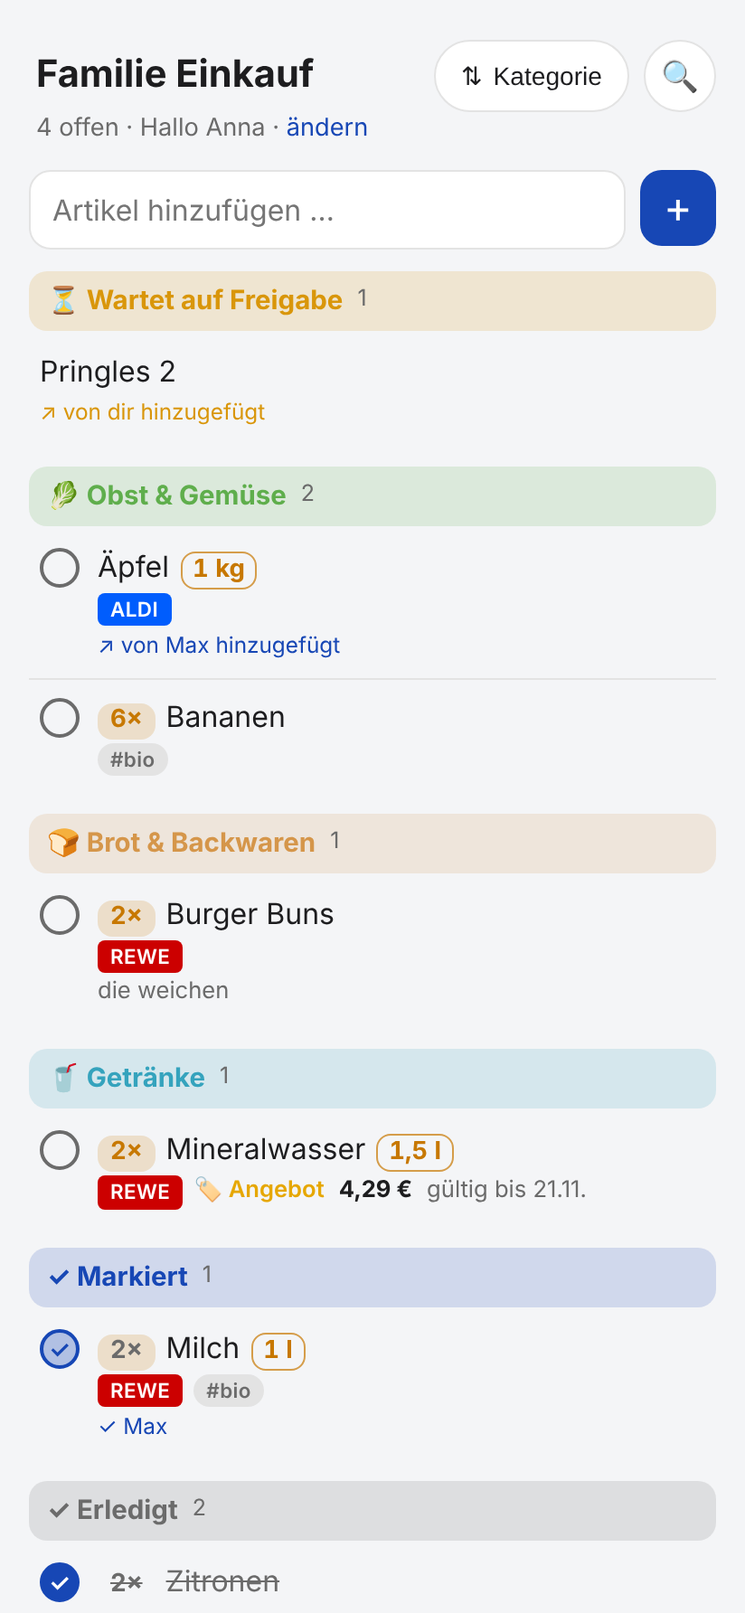
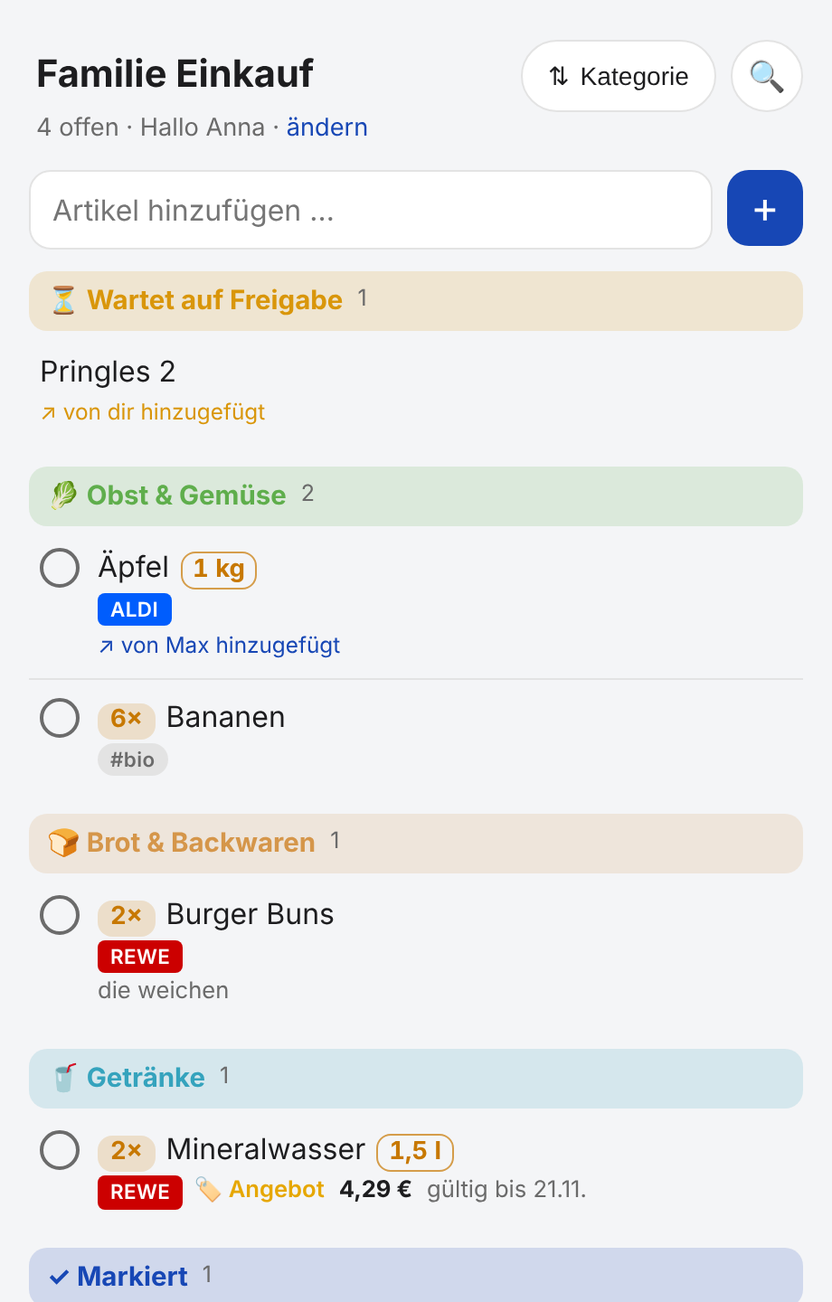
SmartLists pictures as dashboard cards, not in a phone frame

diff --git a/en/index.html b/en/index.html
@@ -337,7 +337,8 @@
   .shot .bar::after { content: "‹ ›"; position: absolute; top: 50%; left: 50%; transform: translate(-50%, -50%); width: 36px; height: 36px; border-radius: 50%; background: #fff; color: #1565C0; font-weight: 800; font-size: 13px; display: grid; place-items: center; box-shadow: 0 2px 8px rgba(0,0,0,.4); }
   .shot input { position: absolute; inset: 0; width: 100%; height: 100%; margin: 0; opacity: 0; cursor: ew-resize; touch-action: pan-y; }
   .shots { display: flex; gap: 28px; justify-content: center; flex-wrap: wrap; margin: 4px 0 30px; }
-  .shots.four { gap: 20px; } .shots.four .shot { width: 205px; border-radius: 26px; border-width: 5px; } .shots.four figcaption { max-width: 205px; }
+  /* Karte im Dashboard: schlichter Rahmen statt Smartphone – das ist keine App */
+  .shots.cards { gap: 18px; } .shots.cards .shot { width: 218px; aspect-ratio: 460 / 720; border-radius: 14px; border: 1px solid var(--border); background: var(--card-bg); box-shadow: 0 8px 24px var(--shadow); } .shots.cards figcaption { max-width: 218px; }
   .shots figure { margin: 0; text-align: center; } .shots figcaption { margin-top: 10px; color: var(--muted); font-size: 14px; font-weight: 600; }
   @media (max-width: 760px) { .shot { margin: 0 auto; } }
   .checks { list-style: none; margin: 10px 0 0; padding: 0; }
@@ -660,12 +661,12 @@
     </div>
 
     <h2 class="section-title">What it looks like</h2>
-    <p class="lead">Real pictures of the card with example data (shown in German). Drag the slider left or right: light on the left, dark on the right.</p>
-    <div class="shots four">
-      <figure><div class="shot ba" style="--p:50%"><img src="../assets/card/card_list_dark.png" alt="SmartLists" width="412" height="892" loading="lazy"><img class="top" src="../assets/card/card_list.png" alt="" width="412" height="892" loading="lazy"><span class="bar"></span><input type="range" min="0" max="100" value="50" aria-label="Light / dark"></div><figcaption>List with categories and due items</figcaption></figure>
-      <figure><div class="shot ba" style="--p:50%"><img src="../assets/card/card_shop_dark.png" alt="SmartLists" width="412" height="892" loading="lazy"><img class="top" src="../assets/card/card_shop.png" alt="" width="412" height="892" loading="lazy"><span class="bar"></span><input type="range" min="0" max="100" value="50" aria-label="Light / dark"></div><figcaption>Shopping mode</figcaption></figure>
-      <figure><div class="shot ba" style="--p:50%"><img src="../assets/card/card_due_dark.png" alt="SmartLists" width="412" height="892" loading="lazy"><img class="top" src="../assets/card/card_due.png" alt="" width="412" height="892" loading="lazy"><span class="bar"></span><input type="range" min="0" max="100" value="50" aria-label="Light / dark"></div><figcaption>Due on, repeat, calendar</figcaption></figure>
-      <figure><div class="shot ba" style="--p:50%"><img src="../assets/card/card_share_dark.png" alt="SmartLists" width="412" height="892" loading="lazy"><img class="top" src="../assets/card/card_share.png" alt="" width="412" height="892" loading="lazy"><span class="bar"></span><input type="range" min="0" max="100" value="50" aria-label="Light / dark"></div><figcaption>Shared link in the browser</figcaption></figure>
+    <p class="lead">Real pictures of the card in the Home Assistant dashboard, with example data (shown in German). Drag the slider left or right: light on the left, dark on the right.</p>
+    <div class="shots cards">
+      <figure><div class="shot ba" style="--p:50%"><img src="../assets/card/card_list_dark.png" alt="SmartLists" width="460" height="720" loading="lazy"><img class="top" src="../assets/card/card_list.png" alt="" width="460" height="720" loading="lazy"><span class="bar"></span><input type="range" min="0" max="100" value="50" aria-label="Light / dark"></div><figcaption>List with categories and due items</figcaption></figure>
+      <figure><div class="shot ba" style="--p:50%"><img src="../assets/card/card_shop_dark.png" alt="SmartLists" width="460" height="720" loading="lazy"><img class="top" src="../assets/card/card_shop.png" alt="" width="460" height="720" loading="lazy"><span class="bar"></span><input type="range" min="0" max="100" value="50" aria-label="Light / dark"></div><figcaption>Shopping mode</figcaption></figure>
+      <figure><div class="shot ba" style="--p:50%"><img src="../assets/card/card_due_dark.png" alt="SmartLists" width="460" height="720" loading="lazy"><img class="top" src="../assets/card/card_due.png" alt="" width="460" height="720" loading="lazy"><span class="bar"></span><input type="range" min="0" max="100" value="50" aria-label="Light / dark"></div><figcaption>Due on, repeat, calendar</figcaption></figure>
+      <figure><div class="shot ba" style="--p:50%"><img src="../assets/card/card_share_dark.png" alt="SmartLists" width="460" height="720" loading="lazy"><img class="top" src="../assets/card/card_share.png" alt="" width="460" height="720" loading="lazy"><span class="bar"></span><input type="range" min="0" max="100" value="50" aria-label="Light / dark"></div><figcaption>Shared link in the browser</figcaption></figure>
     </div>
 
     <div class="callout">

diff --git a/index.html b/index.html
@@ -337,7 +337,8 @@
   .shot .bar::after { content: "‹ ›"; position: absolute; top: 50%; left: 50%; transform: translate(-50%, -50%); width: 36px; height: 36px; border-radius: 50%; background: #fff; color: #1565C0; font-weight: 800; font-size: 13px; display: grid; place-items: center; box-shadow: 0 2px 8px rgba(0,0,0,.4); }
   .shot input { position: absolute; inset: 0; width: 100%; height: 100%; margin: 0; opacity: 0; cursor: ew-resize; touch-action: pan-y; }
   .shots { display: flex; gap: 28px; justify-content: center; flex-wrap: wrap; margin: 4px 0 30px; }
-  .shots.four { gap: 20px; } .shots.four .shot { width: 205px; border-radius: 26px; border-width: 5px; } .shots.four figcaption { max-width: 205px; }
+  /* Karte im Dashboard: schlichter Rahmen statt Smartphone – das ist keine App */
+  .shots.cards { gap: 18px; } .shots.cards .shot { width: 218px; aspect-ratio: 460 / 720; border-radius: 14px; border: 1px solid var(--border); background: var(--card-bg); box-shadow: 0 8px 24px var(--shadow); } .shots.cards figcaption { max-width: 218px; }
   .shots figure { margin: 0; text-align: center; } .shots figcaption { margin-top: 10px; color: var(--muted); font-size: 14px; font-weight: 600; }
   @media (max-width: 760px) { .shot { margin: 0 auto; } }
   .checks { list-style: none; margin: 10px 0 0; padding: 0; }
@@ -660,12 +661,12 @@
     </div>
 
     <h2 class="section-title">So sieht es aus</h2>
-    <p class="lead">Echte Bilder der Karte mit Beispieldaten. Zieh den Schieber nach links oder rechts: links hell, rechts dunkel.</p>
-    <div class="shots four">
-      <figure><div class="shot ba" style="--p:50%"><img src="assets/card/card_list_dark.png" alt="SmartLists" width="412" height="892" loading="lazy"><img class="top" src="assets/card/card_list.png" alt="" width="412" height="892" loading="lazy"><span class="bar"></span><input type="range" min="0" max="100" value="50" aria-label="Hell / Dunkel"></div><figcaption>Liste mit Kategorien und Fälligem</figcaption></figure>
-      <figure><div class="shot ba" style="--p:50%"><img src="assets/card/card_shop_dark.png" alt="SmartLists" width="412" height="892" loading="lazy"><img class="top" src="assets/card/card_shop.png" alt="" width="412" height="892" loading="lazy"><span class="bar"></span><input type="range" min="0" max="100" value="50" aria-label="Hell / Dunkel"></div><figcaption>Einkaufsmodus</figcaption></figure>
-      <figure><div class="shot ba" style="--p:50%"><img src="assets/card/card_due_dark.png" alt="SmartLists" width="412" height="892" loading="lazy"><img class="top" src="assets/card/card_due.png" alt="" width="412" height="892" loading="lazy"><span class="bar"></span><input type="range" min="0" max="100" value="50" aria-label="Hell / Dunkel"></div><figcaption>Fällig am, Wiederholen, Kalender</figcaption></figure>
-      <figure><div class="shot ba" style="--p:50%"><img src="assets/card/card_share_dark.png" alt="SmartLists" width="412" height="892" loading="lazy"><img class="top" src="assets/card/card_share.png" alt="" width="412" height="892" loading="lazy"><span class="bar"></span><input type="range" min="0" max="100" value="50" aria-label="Hell / Dunkel"></div><figcaption>Geteilter Link im Browser</figcaption></figure>
+    <p class="lead">Echte Bilder der Karte im Dashboard von Home Assistant, mit Beispieldaten. Zieh den Schieber nach links oder rechts: links hell, rechts dunkel.</p>
+    <div class="shots cards">
+      <figure><div class="shot ba" style="--p:50%"><img src="assets/card/card_list_dark.png" alt="SmartLists" width="460" height="720" loading="lazy"><img class="top" src="assets/card/card_list.png" alt="" width="460" height="720" loading="lazy"><span class="bar"></span><input type="range" min="0" max="100" value="50" aria-label="Hell / Dunkel"></div><figcaption>Liste mit Kategorien und Fälligem</figcaption></figure>
+      <figure><div class="shot ba" style="--p:50%"><img src="assets/card/card_shop_dark.png" alt="SmartLists" width="460" height="720" loading="lazy"><img class="top" src="assets/card/card_shop.png" alt="" width="460" height="720" loading="lazy"><span class="bar"></span><input type="range" min="0" max="100" value="50" aria-label="Hell / Dunkel"></div><figcaption>Einkaufsmodus</figcaption></figure>
+      <figure><div class="shot ba" style="--p:50%"><img src="assets/card/card_due_dark.png" alt="SmartLists" width="460" height="720" loading="lazy"><img class="top" src="assets/card/card_due.png" alt="" width="460" height="720" loading="lazy"><span class="bar"></span><input type="range" min="0" max="100" value="50" aria-label="Hell / Dunkel"></div><figcaption>Fällig am, Wiederholen, Kalender</figcaption></figure>
+      <figure><div class="shot ba" style="--p:50%"><img src="assets/card/card_share_dark.png" alt="SmartLists" width="460" height="720" loading="lazy"><img class="top" src="assets/card/card_share.png" alt="" width="460" height="720" loading="lazy"><span class="bar"></span><input type="range" min="0" max="100" value="50" aria-label="Hell / Dunkel"></div><figcaption>Geteilter Link im Browser</figcaption></figure>
     </div>
 
     <div class="callout">

diff --git a/fr/index.html b/fr/index.html
@@ -337,7 +337,8 @@
   .shot .bar::after { content: "‹ ›"; position: absolute; top: 50%; left: 50%; transform: translate(-50%, -50%); width: 36px; height: 36px; border-radius: 50%; background: #fff; color: #1565C0; font-weight: 800; font-size: 13px; display: grid; place-items: center; box-shadow: 0 2px 8px rgba(0,0,0,.4); }
   .shot input { position: absolute; inset: 0; width: 100%; height: 100%; margin: 0; opacity: 0; cursor: ew-resize; touch-action: pan-y; }
   .shots { display: flex; gap: 28px; justify-content: center; flex-wrap: wrap; margin: 4px 0 30px; }
-  .shots.four { gap: 20px; } .shots.four .shot { width: 205px; border-radius: 26px; border-width: 5px; } .shots.four figcaption { max-width: 205px; }
+  /* Karte im Dashboard: schlichter Rahmen statt Smartphone – das ist keine App */
+  .shots.cards { gap: 18px; } .shots.cards .shot { width: 218px; aspect-ratio: 460 / 720; border-radius: 14px; border: 1px solid var(--border); background: var(--card-bg); box-shadow: 0 8px 24px var(--shadow); } .shots.cards figcaption { max-width: 218px; }
   .shots figure { margin: 0; text-align: center; } .shots figcaption { margin-top: 10px; color: var(--muted); font-size: 14px; font-weight: 600; }
   @media (max-width: 760px) { .shot { margin: 0 auto; } }
   .checks { list-style: none; margin: 10px 0 0; padding: 0; }
@@ -661,11 +662,11 @@
 
     <h2 class="section-title">À quoi ça ressemble</h2>
     <p class="lead">Vraies images de la carte avec des données d’exemple (en allemand). Fais glisser le curseur : clair à gauche, sombre à droite.</p>
-    <div class="shots four">
-      <figure><div class="shot ba" style="--p:50%"><img src="../assets/card/card_list_dark.png" alt="SmartLists" width="412" height="892" loading="lazy"><img class="top" src="../assets/card/card_list.png" alt="" width="412" height="892" loading="lazy"><span class="bar"></span><input type="range" min="0" max="100" value="50" aria-label="Clair / sombre"></div><figcaption>Liste avec catégories et échéances</figcaption></figure>
-      <figure><div class="shot ba" style="--p:50%"><img src="../assets/card/card_shop_dark.png" alt="SmartLists" width="412" height="892" loading="lazy"><img class="top" src="../assets/card/card_shop.png" alt="" width="412" height="892" loading="lazy"><span class="bar"></span><input type="range" min="0" max="100" value="50" aria-label="Clair / sombre"></div><figcaption>Mode courses</figcaption></figure>
-      <figure><div class="shot ba" style="--p:50%"><img src="../assets/card/card_due_dark.png" alt="SmartLists" width="412" height="892" loading="lazy"><img class="top" src="../assets/card/card_due.png" alt="" width="412" height="892" loading="lazy"><span class="bar"></span><input type="range" min="0" max="100" value="50" aria-label="Clair / sombre"></div><figcaption>Échéance, répétition, calendrier</figcaption></figure>
-      <figure><div class="shot ba" style="--p:50%"><img src="../assets/card/card_share_dark.png" alt="SmartLists" width="412" height="892" loading="lazy"><img class="top" src="../assets/card/card_share.png" alt="" width="412" height="892" loading="lazy"><span class="bar"></span><input type="range" min="0" max="100" value="50" aria-label="Clair / sombre"></div><figcaption>Lien partagé dans le navigateur</figcaption></figure>
+    <div class="shots cards">
+      <figure><div class="shot ba" style="--p:50%"><img src="../assets/card/card_list_dark.png" alt="SmartLists" width="460" height="720" loading="lazy"><img class="top" src="../assets/card/card_list.png" alt="" width="460" height="720" loading="lazy"><span class="bar"></span><input type="range" min="0" max="100" value="50" aria-label="Clair / sombre"></div><figcaption>Liste avec catégories et échéances</figcaption></figure>
+      <figure><div class="shot ba" style="--p:50%"><img src="../assets/card/card_shop_dark.png" alt="SmartLists" width="460" height="720" loading="lazy"><img class="top" src="../assets/card/card_shop.png" alt="" width="460" height="720" loading="lazy"><span class="bar"></span><input type="range" min="0" max="100" value="50" aria-label="Clair / sombre"></div><figcaption>Mode courses</figcaption></figure>
+      <figure><div class="shot ba" style="--p:50%"><img src="../assets/card/card_due_dark.png" alt="SmartLists" width="460" height="720" loading="lazy"><img class="top" src="../assets/card/card_due.png" alt="" width="460" height="720" loading="lazy"><span class="bar"></span><input type="range" min="0" max="100" value="50" aria-label="Clair / sombre"></div><figcaption>Échéance, répétition, calendrier</figcaption></figure>
+      <figure><div class="shot ba" style="--p:50%"><img src="../assets/card/card_share_dark.png" alt="SmartLists" width="460" height="720" loading="lazy"><img class="top" src="../assets/card/card_share.png" alt="" width="460" height="720" loading="lazy"><span class="bar"></span><input type="range" min="0" max="100" value="50" aria-label="Clair / sombre"></div><figcaption>Lien partagé dans le navigateur</figcaption></figure>
     </div>
 
     <div class="callout">

diff --git a/es/index.html b/es/index.html
@@ -337,7 +337,8 @@
   .shot .bar::after { content: "‹ ›"; position: absolute; top: 50%; left: 50%; transform: translate(-50%, -50%); width: 36px; height: 36px; border-radius: 50%; background: #fff; color: #1565C0; font-weight: 800; font-size: 13px; display: grid; place-items: center; box-shadow: 0 2px 8px rgba(0,0,0,.4); }
   .shot input { position: absolute; inset: 0; width: 100%; height: 100%; margin: 0; opacity: 0; cursor: ew-resize; touch-action: pan-y; }
   .shots { display: flex; gap: 28px; justify-content: center; flex-wrap: wrap; margin: 4px 0 30px; }
-  .shots.four { gap: 20px; } .shots.four .shot { width: 205px; border-radius: 26px; border-width: 5px; } .shots.four figcaption { max-width: 205px; }
+  /* Karte im Dashboard: schlichter Rahmen statt Smartphone – das ist keine App */
+  .shots.cards { gap: 18px; } .shots.cards .shot { width: 218px; aspect-ratio: 460 / 720; border-radius: 14px; border: 1px solid var(--border); background: var(--card-bg); box-shadow: 0 8px 24px var(--shadow); } .shots.cards figcaption { max-width: 218px; }
   .shots figure { margin: 0; text-align: center; } .shots figcaption { margin-top: 10px; color: var(--muted); font-size: 14px; font-weight: 600; }
   @media (max-width: 760px) { .shot { margin: 0 auto; } }
   .checks { list-style: none; margin: 10px 0 0; padding: 0; }
@@ -661,11 +662,11 @@
 
     <h2 class="section-title">Así se ve</h2>
     <p class="lead">Imágenes reales de la tarjeta con datos de ejemplo (en alemán). Arrastra el control: claro a la izquierda, oscuro a la derecha.</p>
-    <div class="shots four">
-      <figure><div class="shot ba" style="--p:50%"><img src="../assets/card/card_list_dark.png" alt="SmartLists" width="412" height="892" loading="lazy"><img class="top" src="../assets/card/card_list.png" alt="" width="412" height="892" loading="lazy"><span class="bar"></span><input type="range" min="0" max="100" value="50" aria-label="Claro / oscuro"></div><figcaption>Lista con categorías y vencimientos</figcaption></figure>
-      <figure><div class="shot ba" style="--p:50%"><img src="../assets/card/card_shop_dark.png" alt="SmartLists" width="412" height="892" loading="lazy"><img class="top" src="../assets/card/card_shop.png" alt="" width="412" height="892" loading="lazy"><span class="bar"></span><input type="range" min="0" max="100" value="50" aria-label="Claro / oscuro"></div><figcaption>Modo compra</figcaption></figure>
-      <figure><div class="shot ba" style="--p:50%"><img src="../assets/card/card_due_dark.png" alt="SmartLists" width="412" height="892" loading="lazy"><img class="top" src="../assets/card/card_due.png" alt="" width="412" height="892" loading="lazy"><span class="bar"></span><input type="range" min="0" max="100" value="50" aria-label="Claro / oscuro"></div><figcaption>Vence el, repetir, calendario</figcaption></figure>
-      <figure><div class="shot ba" style="--p:50%"><img src="../assets/card/card_share_dark.png" alt="SmartLists" width="412" height="892" loading="lazy"><img class="top" src="../assets/card/card_share.png" alt="" width="412" height="892" loading="lazy"><span class="bar"></span><input type="range" min="0" max="100" value="50" aria-label="Claro / oscuro"></div><figcaption>Enlace compartido en el navegador</figcaption></figure>
+    <div class="shots cards">
+      <figure><div class="shot ba" style="--p:50%"><img src="../assets/card/card_list_dark.png" alt="SmartLists" width="460" height="720" loading="lazy"><img class="top" src="../assets/card/card_list.png" alt="" width="460" height="720" loading="lazy"><span class="bar"></span><input type="range" min="0" max="100" value="50" aria-label="Claro / oscuro"></div><figcaption>Lista con categorías y vencimientos</figcaption></figure>
+      <figure><div class="shot ba" style="--p:50%"><img src="../assets/card/card_shop_dark.png" alt="SmartLists" width="460" height="720" loading="lazy"><img class="top" src="../assets/card/card_shop.png" alt="" width="460" height="720" loading="lazy"><span class="bar"></span><input type="range" min="0" max="100" value="50" aria-label="Claro / oscuro"></div><figcaption>Modo compra</figcaption></figure>
+      <figure><div class="shot ba" style="--p:50%"><img src="../assets/card/card_due_dark.png" alt="SmartLists" width="460" height="720" loading="lazy"><img class="top" src="../assets/card/card_due.png" alt="" width="460" height="720" loading="lazy"><span class="bar"></span><input type="range" min="0" max="100" value="50" aria-label="Claro / oscuro"></div><figcaption>Vence el, repetir, calendario</figcaption></figure>
+      <figure><div class="shot ba" style="--p:50%"><img src="../assets/card/card_share_dark.png" alt="SmartLists" width="460" height="720" loading="lazy"><img class="top" src="../assets/card/card_share.png" alt="" width="460" height="720" loading="lazy"><span class="bar"></span><input type="range" min="0" max="100" value="50" aria-label="Claro / oscuro"></div><figcaption>Enlace compartido en el navegador</figcaption></figure>
     </div>
 
     <div class="callout">

diff --git a/pl/index.html b/pl/index.html
@@ -337,7 +337,8 @@
   .shot .bar::after { content: "‹ ›"; position: absolute; top: 50%; left: 50%; transform: translate(-50%, -50%); width: 36px; height: 36px; border-radius: 50%; background: #fff; color: #1565C0; font-weight: 800; font-size: 13px; display: grid; place-items: center; box-shadow: 0 2px 8px rgba(0,0,0,.4); }
   .shot input { position: absolute; inset: 0; width: 100%; height: 100%; margin: 0; opacity: 0; cursor: ew-resize; touch-action: pan-y; }
   .shots { display: flex; gap: 28px; justify-content: center; flex-wrap: wrap; margin: 4px 0 30px; }
-  .shots.four { gap: 20px; } .shots.four .shot { width: 205px; border-radius: 26px; border-width: 5px; } .shots.four figcaption { max-width: 205px; }
+  /* Karte im Dashboard: schlichter Rahmen statt Smartphone – das ist keine App */
+  .shots.cards { gap: 18px; } .shots.cards .shot { width: 218px; aspect-ratio: 460 / 720; border-radius: 14px; border: 1px solid var(--border); background: var(--card-bg); box-shadow: 0 8px 24px var(--shadow); } .shots.cards figcaption { max-width: 218px; }
   .shots figure { margin: 0; text-align: center; } .shots figcaption { margin-top: 10px; color: var(--muted); font-size: 14px; font-weight: 600; }
   @media (max-width: 760px) { .shot { margin: 0 auto; } }
   .checks { list-style: none; margin: 10px 0 0; padding: 0; }
@@ -661,11 +662,11 @@
 
     <h2 class="section-title">Tak to wygląda</h2>
     <p class="lead">Prawdziwe obrazy karty z przykładowymi danymi (po niemiecku). Przesuń suwak: po lewej jasny, po prawej ciemny.</p>
-    <div class="shots four">
-      <figure><div class="shot ba" style="--p:50%"><img src="../assets/card/card_list_dark.png" alt="SmartLists" width="412" height="892" loading="lazy"><img class="top" src="../assets/card/card_list.png" alt="" width="412" height="892" loading="lazy"><span class="bar"></span><input type="range" min="0" max="100" value="50" aria-label="Jasny / ciemny"></div><figcaption>Lista z kategoriami i terminami</figcaption></figure>
-      <figure><div class="shot ba" style="--p:50%"><img src="../assets/card/card_shop_dark.png" alt="SmartLists" width="412" height="892" loading="lazy"><img class="top" src="../assets/card/card_shop.png" alt="" width="412" height="892" loading="lazy"><span class="bar"></span><input type="range" min="0" max="100" value="50" aria-label="Jasny / ciemny"></div><figcaption>Tryb zakupów</figcaption></figure>
-      <figure><div class="shot ba" style="--p:50%"><img src="../assets/card/card_due_dark.png" alt="SmartLists" width="412" height="892" loading="lazy"><img class="top" src="../assets/card/card_due.png" alt="" width="412" height="892" loading="lazy"><span class="bar"></span><input type="range" min="0" max="100" value="50" aria-label="Jasny / ciemny"></div><figcaption>Termin, powtarzanie, kalendarz</figcaption></figure>
-      <figure><div class="shot ba" style="--p:50%"><img src="../assets/card/card_share_dark.png" alt="SmartLists" width="412" height="892" loading="lazy"><img class="top" src="../assets/card/card_share.png" alt="" width="412" height="892" loading="lazy"><span class="bar"></span><input type="range" min="0" max="100" value="50" aria-label="Jasny / ciemny"></div><figcaption>Udostępniony link w przeglądarce</figcaption></figure>
+    <div class="shots cards">
+      <figure><div class="shot ba" style="--p:50%"><img src="../assets/card/card_list_dark.png" alt="SmartLists" width="460" height="720" loading="lazy"><img class="top" src="../assets/card/card_list.png" alt="" width="460" height="720" loading="lazy"><span class="bar"></span><input type="range" min="0" max="100" value="50" aria-label="Jasny / ciemny"></div><figcaption>Lista z kategoriami i terminami</figcaption></figure>
+      <figure><div class="shot ba" style="--p:50%"><img src="../assets/card/card_shop_dark.png" alt="SmartLists" width="460" height="720" loading="lazy"><img class="top" src="../assets/card/card_shop.png" alt="" width="460" height="720" loading="lazy"><span class="bar"></span><input type="range" min="0" max="100" value="50" aria-label="Jasny / ciemny"></div><figcaption>Tryb zakupów</figcaption></figure>
+      <figure><div class="shot ba" style="--p:50%"><img src="../assets/card/card_due_dark.png" alt="SmartLists" width="460" height="720" loading="lazy"><img class="top" src="../assets/card/card_due.png" alt="" width="460" height="720" loading="lazy"><span class="bar"></span><input type="range" min="0" max="100" value="50" aria-label="Jasny / ciemny"></div><figcaption>Termin, powtarzanie, kalendarz</figcaption></figure>
+      <figure><div class="shot ba" style="--p:50%"><img src="../assets/card/card_share_dark.png" alt="SmartLists" width="460" height="720" loading="lazy"><img class="top" src="../assets/card/card_share.png" alt="" width="460" height="720" loading="lazy"><span class="bar"></span><input type="range" min="0" max="100" value="50" aria-label="Jasny / ciemny"></div><figcaption>Udostępniony link w przeglądarce</figcaption></figure>
     </div>
 
     <div class="callout">

diff --git a/it/index.html b/it/index.html
@@ -337,7 +337,8 @@
   .shot .bar::after { content: "‹ ›"; position: absolute; top: 50%; left: 50%; transform: translate(-50%, -50%); width: 36px; height: 36px; border-radius: 50%; background: #fff; color: #1565C0; font-weight: 800; font-size: 13px; display: grid; place-items: center; box-shadow: 0 2px 8px rgba(0,0,0,.4); }
   .shot input { position: absolute; inset: 0; width: 100%; height: 100%; margin: 0; opacity: 0; cursor: ew-resize; touch-action: pan-y; }
   .shots { display: flex; gap: 28px; justify-content: center; flex-wrap: wrap; margin: 4px 0 30px; }
-  .shots.four { gap: 20px; } .shots.four .shot { width: 205px; border-radius: 26px; border-width: 5px; } .shots.four figcaption { max-width: 205px; }
+  /* Karte im Dashboard: schlichter Rahmen statt Smartphone – das ist keine App */
+  .shots.cards { gap: 18px; } .shots.cards .shot { width: 218px; aspect-ratio: 460 / 720; border-radius: 14px; border: 1px solid var(--border); background: var(--card-bg); box-shadow: 0 8px 24px var(--shadow); } .shots.cards figcaption { max-width: 218px; }
   .shots figure { margin: 0; text-align: center; } .shots figcaption { margin-top: 10px; color: var(--muted); font-size: 14px; font-weight: 600; }
   @media (max-width: 760px) { .shot { margin: 0 auto; } }
   .checks { list-style: none; margin: 10px 0 0; padding: 0; }
@@ -661,11 +662,11 @@
 
     <h2 class="section-title">Ecco come appare</h2>
     <p class="lead">Immagini reali della scheda con dati di esempio (in tedesco). Trascina il cursore: chiaro a sinistra, scuro a destra.</p>
-    <div class="shots four">
-      <figure><div class="shot ba" style="--p:50%"><img src="../assets/card/card_list_dark.png" alt="SmartLists" width="412" height="892" loading="lazy"><img class="top" src="../assets/card/card_list.png" alt="" width="412" height="892" loading="lazy"><span class="bar"></span><input type="range" min="0" max="100" value="50" aria-label="Chiaro / scuro"></div><figcaption>Lista con categorie e scadenze</figcaption></figure>
-      <figure><div class="shot ba" style="--p:50%"><img src="../assets/card/card_shop_dark.png" alt="SmartLists" width="412" height="892" loading="lazy"><img class="top" src="../assets/card/card_shop.png" alt="" width="412" height="892" loading="lazy"><span class="bar"></span><input type="range" min="0" max="100" value="50" aria-label="Chiaro / scuro"></div><figcaption>Modalità spesa</figcaption></figure>
-      <figure><div class="shot ba" style="--p:50%"><img src="../assets/card/card_due_dark.png" alt="SmartLists" width="412" height="892" loading="lazy"><img class="top" src="../assets/card/card_due.png" alt="" width="412" height="892" loading="lazy"><span class="bar"></span><input type="range" min="0" max="100" value="50" aria-label="Chiaro / scuro"></div><figcaption>Scadenza, ripetizione, calendario</figcaption></figure>
-      <figure><div class="shot ba" style="--p:50%"><img src="../assets/card/card_share_dark.png" alt="SmartLists" width="412" height="892" loading="lazy"><img class="top" src="../assets/card/card_share.png" alt="" width="412" height="892" loading="lazy"><span class="bar"></span><input type="range" min="0" max="100" value="50" aria-label="Chiaro / scuro"></div><figcaption>Link condiviso nel browser</figcaption></figure>
+    <div class="shots cards">
+      <figure><div class="shot ba" style="--p:50%"><img src="../assets/card/card_list_dark.png" alt="SmartLists" width="460" height="720" loading="lazy"><img class="top" src="../assets/card/card_list.png" alt="" width="460" height="720" loading="lazy"><span class="bar"></span><input type="range" min="0" max="100" value="50" aria-label="Chiaro / scuro"></div><figcaption>Lista con categorie e scadenze</figcaption></figure>
+      <figure><div class="shot ba" style="--p:50%"><img src="../assets/card/card_shop_dark.png" alt="SmartLists" width="460" height="720" loading="lazy"><img class="top" src="../assets/card/card_shop.png" alt="" width="460" height="720" loading="lazy"><span class="bar"></span><input type="range" min="0" max="100" value="50" aria-label="Chiaro / scuro"></div><figcaption>Modalità spesa</figcaption></figure>
+      <figure><div class="shot ba" style="--p:50%"><img src="../assets/card/card_due_dark.png" alt="SmartLists" width="460" height="720" loading="lazy"><img class="top" src="../assets/card/card_due.png" alt="" width="460" height="720" loading="lazy"><span class="bar"></span><input type="range" min="0" max="100" value="50" aria-label="Chiaro / scuro"></div><figcaption>Scadenza, ripetizione, calendario</figcaption></figure>
+      <figure><div class="shot ba" style="--p:50%"><img src="../assets/card/card_share_dark.png" alt="SmartLists" width="460" height="720" loading="lazy"><img class="top" src="../assets/card/card_share.png" alt="" width="460" height="720" loading="lazy"><span class="bar"></span><input type="range" min="0" max="100" value="50" aria-label="Chiaro / scuro"></div><figcaption>Link condiviso nel browser</figcaption></figure>
     </div>
 
     <div class="callout">

diff --git a/build_i18n.py b/build_i18n.py
@@ -695,7 +695,7 @@ T: dict[str, tuple[str, str, str, str, str]] = {
     'Hell / Dunkel': ('Light / dark', 'Clair / sombre', 'Claro / oscuro', 'Chiaro / scuro', 'Jasny / ciemny'),
     'SmartLists Go': ('SmartLists Go', 'SmartLists Go', 'SmartLists Go', 'SmartLists Go', 'SmartLists Go'),
     'Aktuelle Version': ('Current version', 'Version actuelle', 'Versión actual', 'Versione attuale', 'Aktualna wersja'),
-    'Echte Bilder der Karte mit Beispieldaten. Zieh den Schieber nach links oder rechts: links hell, rechts dunkel.': ('Real pictures of the card with example data (shown in German). Drag the slider left or right: light on the left, dark on the right.', 'Vraies images de la carte avec des données d’exemple (en allemand). Fais glisser le curseur : clair à gauche, sombre à droite.', 'Imágenes reales de la tarjeta con datos de ejemplo (en alemán). Arrastra el control: claro a la izquierda, oscuro a la derecha.', 'Immagini reali della scheda con dati di esempio (in tedesco). Trascina il cursore: chiaro a sinistra, scuro a destra.', 'Prawdziwe obrazy karty z przykładowymi danymi (po niemiecku). Przesuń suwak: po lewej jasny, po prawej ciemny.'),
+    'Echte Bilder der Karte im Dashboard von Home Assistant, mit Beispieldaten. Zieh den Schieber nach links oder rechts: links hell, rechts dunkel.': ('Real pictures of the card in the Home Assistant dashboard, with example data (shown in German). Drag the slider left or right: light on the left, dark on the right.', 'Vraies images de la carte avec des données d’exemple (en allemand). Fais glisser le curseur : clair à gauche, sombre à droite.', 'Imágenes reales de la tarjeta con datos de ejemplo (en alemán). Arrastra el control: claro a la izquierda, oscuro a la derecha.', 'Immagini reali della scheda con dati di esempio (in tedesco). Trascina il cursore: chiaro a sinistra, scuro a destra.', 'Prawdziwe obrazy karty z przykładowymi danymi (po niemiecku). Przesuń suwak: po lewej jasny, po prawej ciemny.'),
     'Liste mit Kategorien und Fälligem': ('List with categories and due items', 'Liste avec catégories et échéances', 'Lista con categorías y vencimientos', 'Lista con categorie e scadenze', 'Lista z kategoriami i terminami'),
     'Fällig am, Wiederholen, Kalender': ('Due on, repeat, calendar', 'Échéance, répétition, calendrier', 'Vence el, repetir, calendario', 'Scadenza, ripetizione, calendario', 'Termin, powtarzanie, kalendarz'),
     'Geteilter Link im Browser': ('Shared link in the browser', 'Lien partagé dans le navigateur', 'Enlace compartido en el navegador', 'Link condiviso nel browser', 'Udostępniony link w przeglądarce'),
